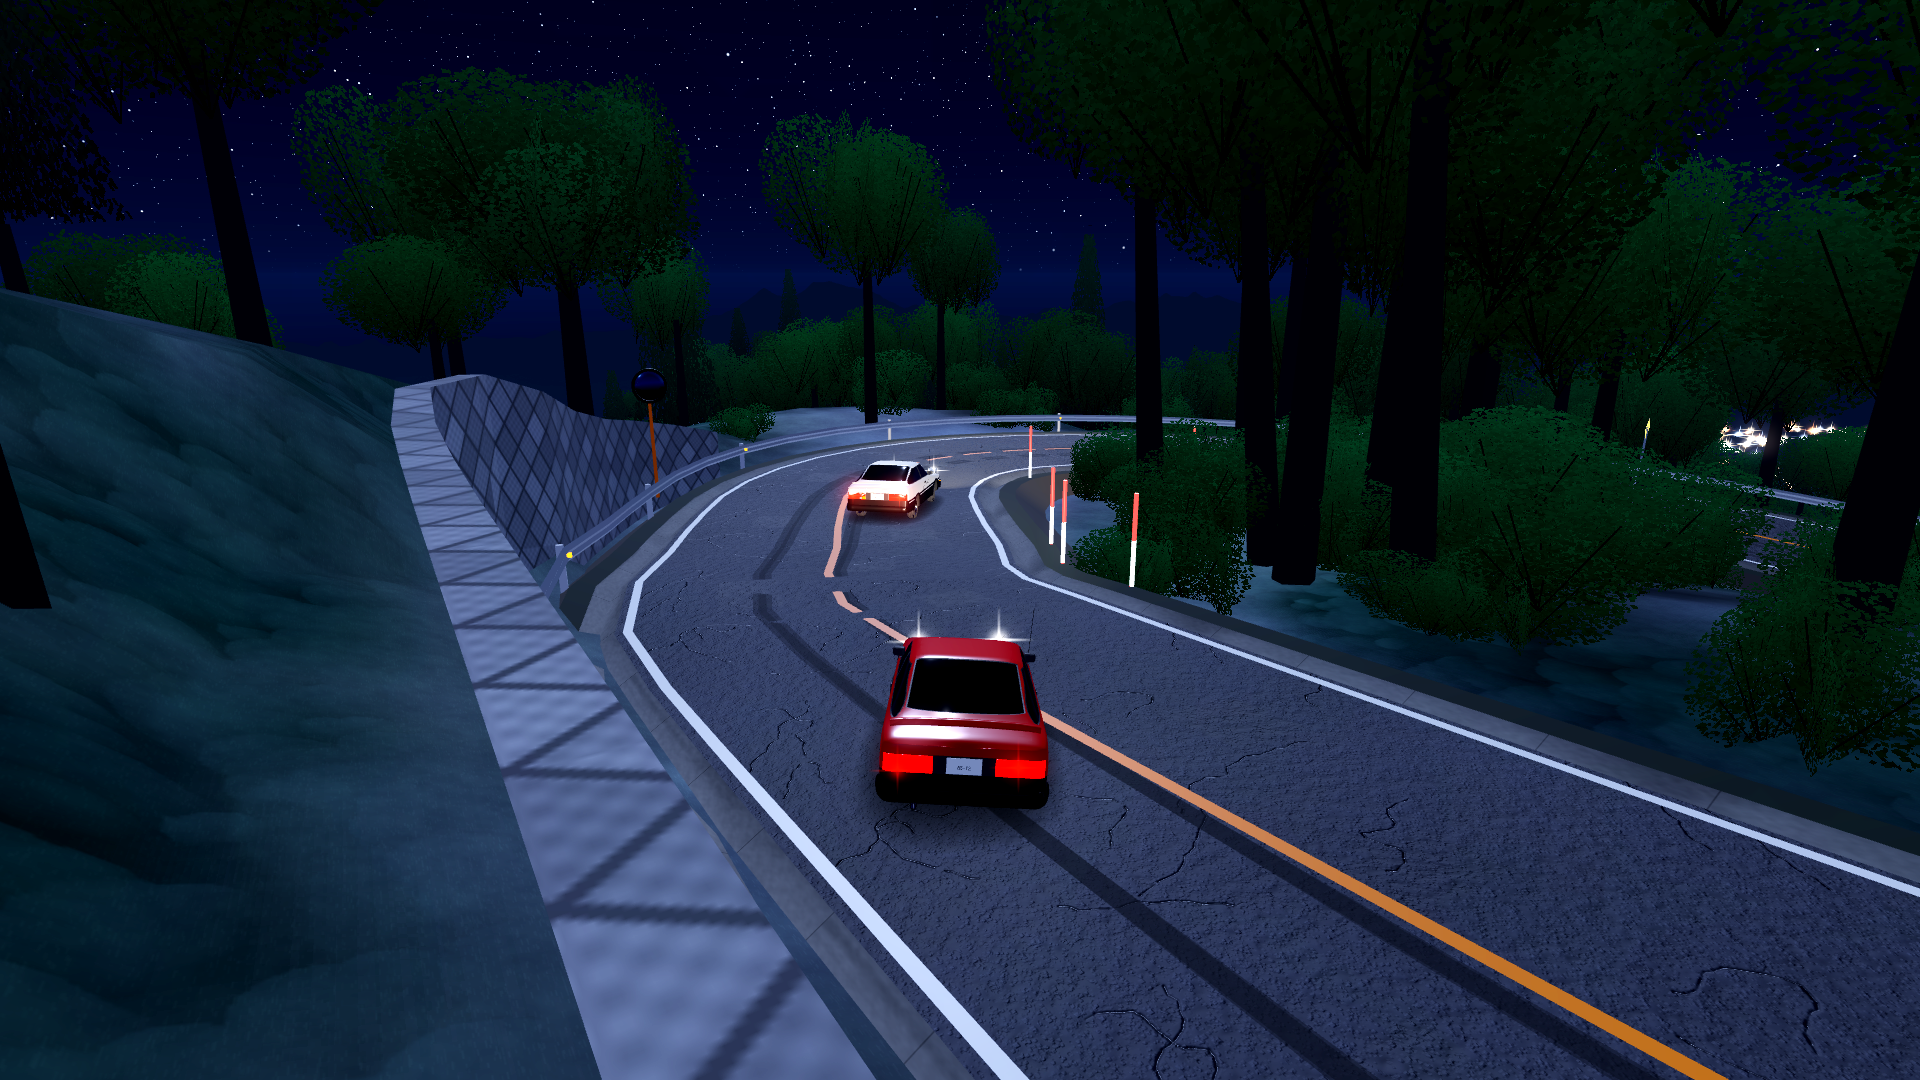
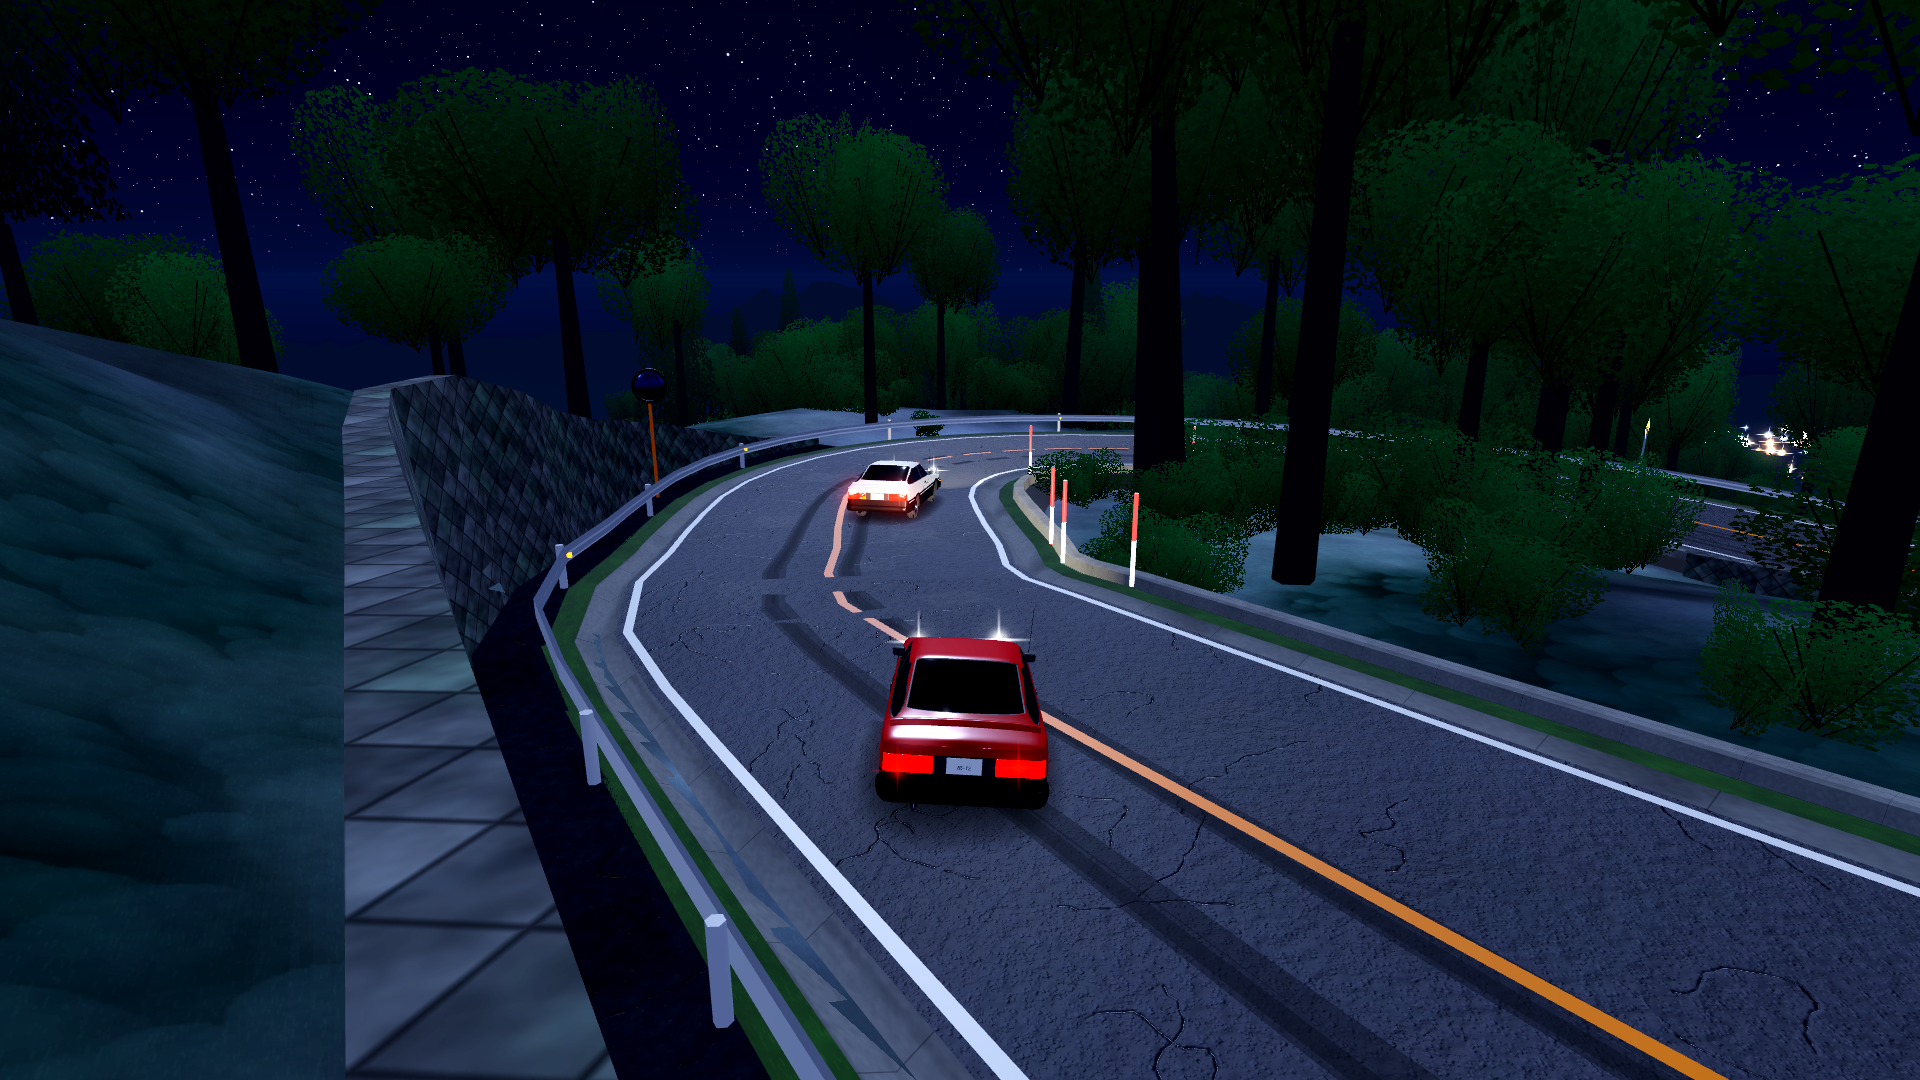
Nothing in the mountain or in each other: props skip spots the hillside would swallow, trees and bushes keep their own space and sit on the high side of slopes; proper corner arrow boards on posts
Claude-Session: https://claude.ai/code/session_01LLcQYzyEQizYewCt6b7etJ

diff --git a/tools/make_textures.py b/tools/make_textures.py
@@ -353,6 +353,19 @@ def shelter_panel():
     save("shelter_panel.png", arr)
 
 
+def chevron():
+    """Corner arrow board: yellow face, black border, two black arrows
+    pointing right (mirrored in game for left-hand corners)."""
+    w, h = 160, 200
+    img = Image.new("RGB", (w, h), (250, 205, 20))
+    d = ImageDraw.Draw(img)
+    d.rectangle([0, 0, w - 1, h - 1], outline=(15, 15, 15), width=10)
+    for x0 in (30, 78):
+        d.polygon([(x0, 40), (x0 + 24, 40), (x0 + 58, 100), (x0 + 24, 160), (x0, 160), (x0 + 34, 100)], fill=(15, 15, 15))
+    img.save(os.path.join(OUT, "chevron.png"))
+    print("wrote chevron.png")
+
+
 if __name__ == "__main__":
     asphalt()
     ground()
@@ -365,3 +378,4 @@ if __name__ == "__main__":
     masonry()
     bus_stop_sign()
     shelter_panel()
+    chevron()
